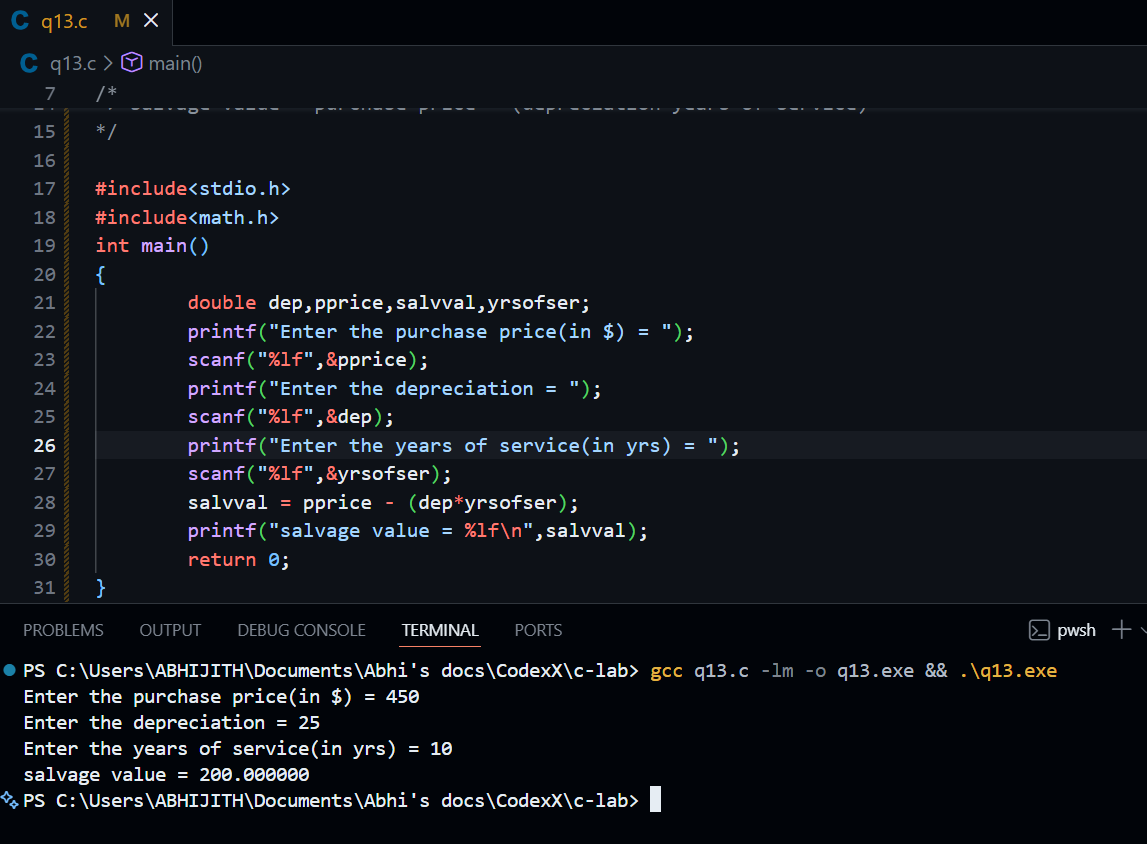
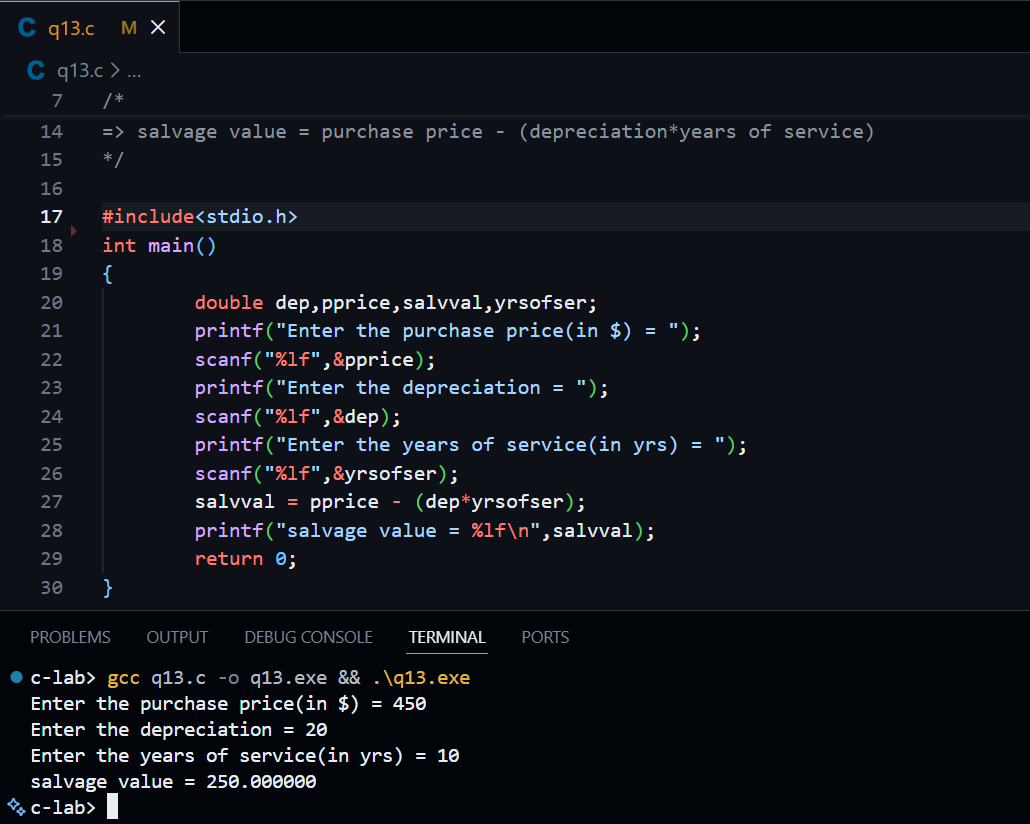
padai

diff --git a/q13.c b/q13.c
@@ -15,7 +15,6 @@ are given.
 */
 
 #include<stdio.h>
-#include<math.h>
 int main()
 {
         double dep,pprice,salvval,yrsofser;
